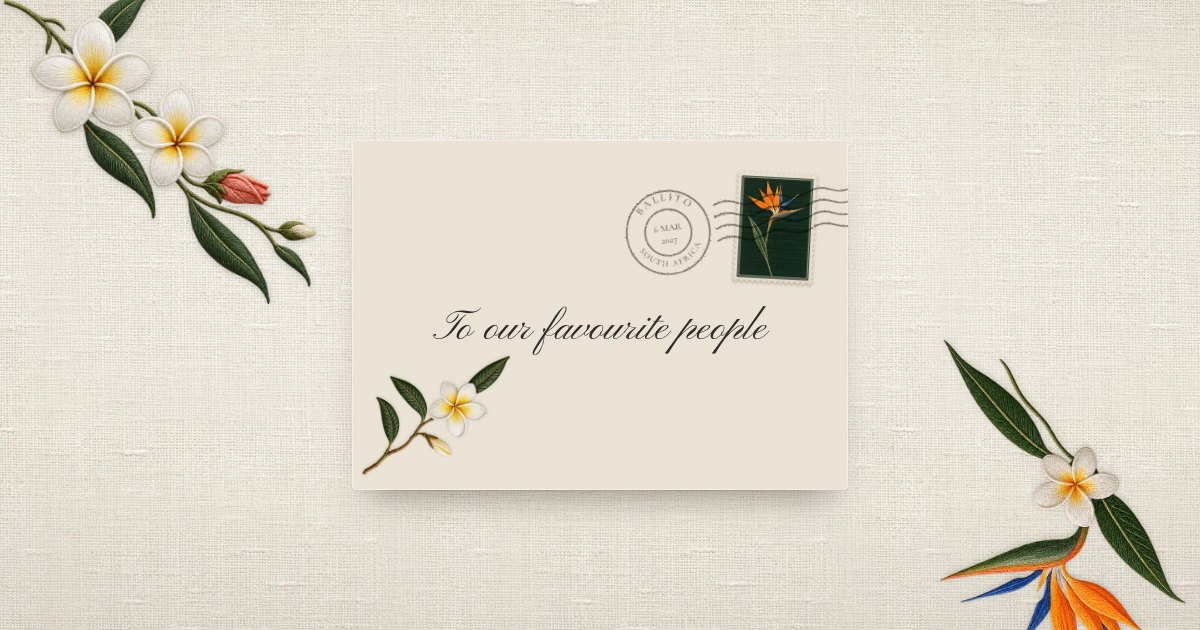
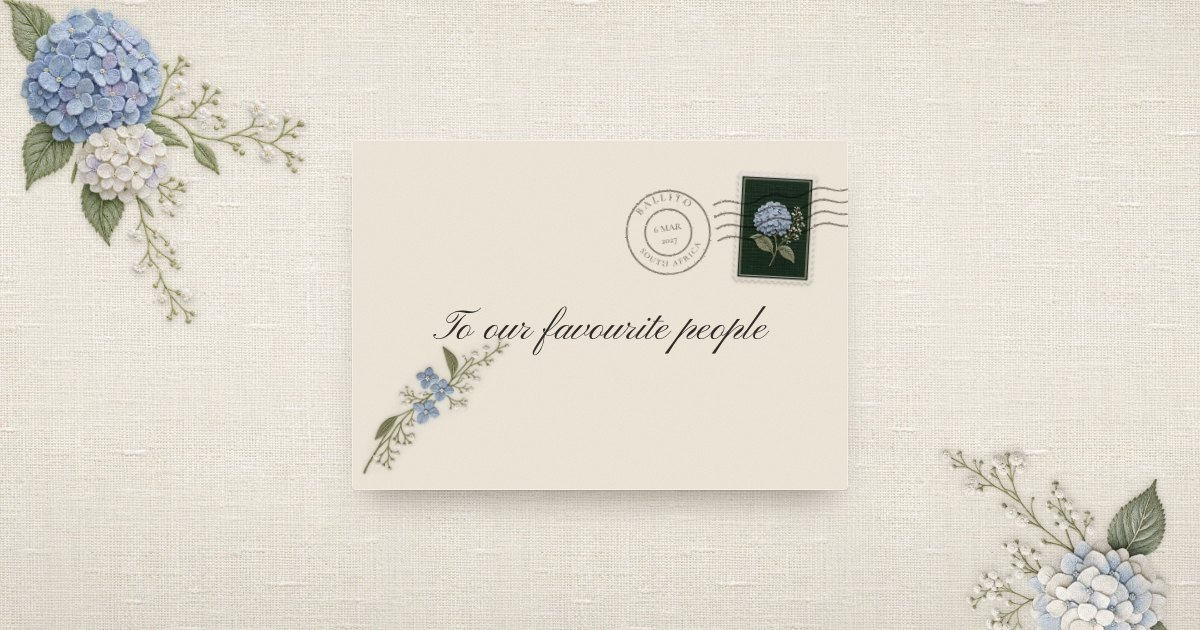
Hydrangeas and baby's breath instead of island flowers
Every floral piece redrawn with soft dusty-blue and white hydrangeas and
baby's breath, still sparse: the cover arch, envelope sprigs, stamp,
liner, side vines, cake, gramophone, bedside vase and the guest cottage.
Flower assets renamed from coastal-* to floral-*.

diff --git a/site/index.html b/site/index.html
@@ -14,7 +14,7 @@
 <meta property="og:url" content="https://benrodrigues05.github.io/rodrigues-wedding/">
 <meta property="og:title" content="Benjamin &amp; Talisha are getting married">
 <meta property="og:description" content="Saturday 6 March 2027 · Collisheen Estate, Ballito. Tap to open your invitation.">
-<meta property="og:image" content="https://benrodrigues05.github.io/rodrigues-wedding/assets/og.jpg?v=3ebeaa2f">
+<meta property="og:image" content="https://benrodrigues05.github.io/rodrigues-wedding/assets/og.jpg?v=dbecaaad">
 <meta property="og:image:width" content="1200">
 <meta property="og:image:height" content="630">
 <meta name="twitter:card" content="summary_large_image">
@@ -25,8 +25,8 @@
 <link rel="preconnect" href="https://fonts.gstatic.com" crossorigin>
 <link rel="stylesheet" href="https://fonts.googleapis.com/css2?family=Pinyon+Script&amp;display=block">
 <link rel="stylesheet" href="https://fonts.googleapis.com/css2?family=Cormorant+Garamond:ital,wght@0,400;0,500;0,600;1,400;1,500&amp;display=swap">
-<link rel="preload" as="image" href="assets/hero-arch.webp?v=c3e23fb2" type="image/webp">
-<link rel="stylesheet" href="styles.css?v=c2107449">
+<link rel="preload" as="image" href="assets/hero-arch.webp?v=a34bda23" type="image/webp">
+<link rel="stylesheet" href="styles.css?v=0fa6d76d">
 <script>
   /* Show the envelope only when JavaScript is running. If script.js?v=94473927 fails to
      load or errors, the invitation is revealed instead of staying sealed. */
@@ -47,8 +47,8 @@
 <!-- ============ THE ENVELOPE (shown first, opened by script.js?v=94473927) ============ -->
 <div class="scene" id="scene">
   <div class="scene-vignette" id="scene-vignette"></div>
-  <img class="scene-sprig scene-sprig--top" src="assets/coastal-corner.webp?v=b234eb41" width="600" height="652" alt="">
-  <img class="scene-sprig scene-sprig--bottom" src="assets/coastal-spray.webp?v=30b27298" width="600" height="821" alt="">
+  <img class="scene-sprig scene-sprig--top" src="assets/floral-corner.webp?v=78e29768" width="600" height="680" alt="">
+  <img class="scene-sprig scene-sprig--bottom" src="assets/floral-spray.webp?v=adca1588" width="600" height="560" alt="">
 
   <div class="envelope" id="envelope" aria-hidden="true">
     <div class="env-back is-hidden" id="env-back">
@@ -78,7 +78,7 @@
     </div>
 
     <div class="env-front" id="env-front">
-      <img class="env-stamp" src="assets/stamp.webp?v=bd9901a7" width="300" height="409" alt="">
+      <img class="env-stamp" src="assets/stamp.webp?v=f6080217" width="300" height="411" alt="">
       <svg class="env-postmark" viewBox="0 0 200 80" focusable="false">
         <defs>
           <path id="pm-top" d="M 13 40 A 27 27 0 0 1 67 40"/>
@@ -106,7 +106,7 @@
         </g>
       </svg>
       <p class="env-to"><span class="env-recipient" id="recipient">To our favourite people</span></p>
-      <img class="env-sprig" src="assets/coastal-sprig.webp?v=27c94e73" width="640" height="514" alt="">
+      <img class="env-sprig" src="assets/floral-sprig.webp?v=2c623f63" width="640" height="600" alt="">
     </div>
   </div>
 
@@ -119,8 +119,8 @@
 <!-- Wide screens only: the same sprigs as on the envelope's table, so the
      page keeps the setting once the letter is open. -->
 <div class="table-decor" id="table-decor" aria-hidden="true">
-  <img class="table-sprig table-sprig--top" src="assets/coastal-corner.webp?v=b234eb41" width="600" height="652" alt="">
-  <img class="table-sprig table-sprig--bottom" src="assets/coastal-spray.webp?v=30b27298" width="600" height="821" alt="">
+  <img class="table-sprig table-sprig--top" src="assets/floral-corner.webp?v=78e29768" width="600" height="680" alt="">
+  <img class="table-sprig table-sprig--bottom" src="assets/floral-spray.webp?v=adca1588" width="600" height="560" alt="">
 </div>
 
 <main class="suite" id="invitation">
@@ -129,7 +129,7 @@
   <header class="hero" id="top">
     <article class="hero-card" id="hero-card" tabindex="-1">
       <p class="eyebrow">The wedding of</p>
-      <img class="hero-arch" src="assets/hero-arch.webp?v=c3e23fb2" width="935" height="1483" alt="Benjamin and Talisha in a black-and-white photograph, framed by an embroidered stone arch of bougainvillea, hibiscus and frangipani">
+      <img class="hero-arch" src="assets/hero-arch.webp?v=a34bda23" width="939" height="1482" alt="Benjamin and Talisha in a black-and-white photograph, framed by an embroidered stone arch with hydrangeas and baby&rsquo;s breath">
       <h1 class="names">Benjamin <span class="amp">&amp;</span> Talisha</h1>
       <p class="hero-date">Saturday · 6 March 2027</p>
       <p class="hero-place">Collisheen Estate · Ballito</p>
@@ -139,8 +139,8 @@
 
   <!-- ============ 2. INVITATION + COUNTDOWN ============ -->
   <section class="families" id="invite" aria-labelledby="invite-title">
-    <img class="garland garland--left" src="assets/coastal-garland.webp?v=33c58f59" width="167" height="1200" alt="" loading="lazy" decoding="async">
-    <img class="garland garland--right" src="assets/coastal-garland.webp?v=33c58f59" width="167" height="1200" alt="" loading="lazy" decoding="async">
+    <img class="garland garland--left" src="assets/floral-garland.webp?v=346e26ac" width="168" height="1200" alt="" loading="lazy" decoding="async">
+    <img class="garland garland--right" src="assets/floral-garland.webp?v=346e26ac" width="168" height="1200" alt="" loading="lazy" decoding="async">
 
     <h2 class="script-title" id="invite-title">Please join us</h2>
     <p class="lede invite-lede">as we say &ldquo;I do&rdquo; in a little chapel among the trees</p>
@@ -184,7 +184,7 @@
   <!-- ============ 4. THE DETAILS: the running order (striped linen) ============ -->
   <section class="details" id="details" aria-labelledby="details-title">
     <div class="details-panel">
-      <img class="motif details-tl" src="assets/coastal-spray.webp?v=30b27298" width="600" height="821" alt="" loading="lazy" decoding="async">
+      <img class="motif details-tl" src="assets/floral-spray.webp?v=adca1588" width="600" height="560" alt="" loading="lazy" decoding="async">
       <img class="motif details-tr" src="assets/lanterns.webp?v=c26fea3b" width="434" height="640" alt="" loading="lazy" decoding="async">
       <h2 class="script-title details-title" id="details-title">The Details</h2>
 
@@ -212,7 +212,7 @@
       </ol>
 
       <img class="motif details-bl" src="assets/champagne.webp?v=5cf81765" width="520" height="579" alt="" loading="lazy" decoding="async">
-      <img class="motif details-br" src="assets/cake.webp?v=a040beea" width="383" height="640" alt="" loading="lazy" decoding="async">
+      <img class="motif details-br" src="assets/cake.webp?v=bcde5944" width="327" height="640" alt="" loading="lazy" decoding="async">
     </div>
   </section>
 
@@ -221,8 +221,8 @@
   <section class="dress" id="dress-code" aria-labelledby="dress-title">
     <div class="napkin">
       <div class="napkin-sprigs">
-        <img class="motif" src="assets/coastal-corner.webp?v=b234eb41" width="600" height="652" alt="" loading="lazy" decoding="async">
-        <img class="motif" src="assets/coastal-sprig.webp?v=27c94e73" width="640" height="514" alt="" loading="lazy" decoding="async">
+        <img class="motif" src="assets/floral-corner.webp?v=78e29768" width="600" height="680" alt="" loading="lazy" decoding="async">
+        <img class="motif" src="assets/floral-sprig.webp?v=2c623f63" width="640" height="600" alt="" loading="lazy" decoding="async">
       </div>
       <img class="motif guests" src="assets/guests.webp?v=6ffe99b5" width="1100" height="697" alt="Embroidered guests in terracotta, orange, marigold, chartreuse, fuchsia and plum gowns, and sand and forest-green suits" loading="lazy" decoding="async">
       <h2 class="script-title" id="dress-title">Dress Code</h2>
@@ -240,7 +240,7 @@
 
   <!-- ============ 6. WHERE TO STAY ============ -->
   <section class="stay" id="stay" aria-labelledby="stay-title">
-    <img class="motif nightstand" src="assets/nightstand.webp?v=cc990385" width="251" height="480" alt="" loading="lazy" decoding="async">
+    <img class="motif nightstand" src="assets/nightstand.webp?v=c483ba5e" width="220" height="480" alt="" loading="lazy" decoding="async">
     <h2 class="script-title" id="stay-title">Where to Stay</h2>
     <p class="caps">Good-value stays near Ballito Junction</p>
     <p class="lede">Ballito Junction is a short drive from the venue, with plenty of places to eat nearby. A few of our picks:</p>
@@ -267,7 +267,7 @@
     </ul>
     <p class="stay-more">Looking for something else? <a href="https://www.lekkeslaap.co.za/accommodation-in/ballito" target="_blank" rel="noopener">Browse more places in Ballito</a></p>
 
-    <img class="motif cottage" src="assets/cottage.webp?v=542e13ec" width="1000" height="662" alt="An embroidered whitewashed guest cottage with a frangipani tree and a palm" loading="lazy" decoding="async">
+    <img class="motif cottage" src="assets/cottage.webp?v=1d957603" width="1000" height="654" alt="An embroidered whitewashed guest cottage with hydrangea bushes" loading="lazy" decoding="async">
   </section>
 
 
@@ -288,7 +288,7 @@
   <!-- ============ 8. RSVP (reply card) ============ -->
   <section class="rsvp" id="rsvp" aria-labelledby="rsvp-title">
     <div class="reply-card">
-      <img class="reply-stamp" src="assets/stamp.webp?v=bd9901a7" width="300" height="409" alt="" loading="lazy" decoding="async">
+      <img class="reply-stamp" src="assets/stamp.webp?v=f6080217" width="300" height="411" alt="" loading="lazy" decoding="async">
       <div class="reply-head" id="rsvp-head">
         <h2 class="script-title" id="rsvp-title">Kindly Reply</h2>
         <p class="reply-by">by 1 December 2026</p>
@@ -343,7 +343,7 @@
         </div>
 
         <div class="if-attending playlist-block">
-          <img class="playlist-gramophone" src="assets/gramophone.webp?v=2d4e3658" width="640" height="900" alt="" loading="lazy" decoding="async">
+          <img class="playlist-gramophone" src="assets/gramophone.webp?v=d0c07217" width="640" height="876" alt="" loading="lazy" decoding="async">
           <p class="script-sub playlist-title">For the playlist</p>
           <p class="playlist-lede">Which songs will get you on the dance floor?</p>
           <div class="field">

diff --git a/site/styles.css b/site/styles.css
@@ -187,7 +187,7 @@ html.js:not(.is-open) body { overflow: hidden; }
   position: absolute;
   inset: 5% 4.5% 0;
   border-radius: 2px 2px 0 0;
-  background: url("assets/liner.webp?v=ed8e408a") 50% 0 / 150px 150px;
+  background: url("assets/liner.webp?v=09b85ff6") 50% 0 / 150px 150px;
 }
 .env-wall::after {            /* shadow inside the envelope's mouth */
   content: "";
@@ -221,7 +221,7 @@ html.js:not(.is-open) body { overflow: hidden; }
 .flap-paper,
 .flap-liner { position: absolute; inset: 0; }
 .flap-paper { clip-path: polygon(0 0, 100% 0, 50% 100%); background: #E7DFD0; }
-.flap-liner { clip-path: polygon(5.5% 0, 94.5% 0, 50% 90%); background: url("assets/liner.webp?v=ed8e408a") 50% 0 / 150px 150px; }
+.flap-liner { clip-path: polygon(5.5% 0, 94.5% 0, 50% 90%); background: url("assets/liner.webp?v=09b85ff6") 50% 0 / 150px 150px; }
 
 .env-seal {
   position: absolute;

diff --git a/tools/make_hero.py b/tools/make_hero.py
@@ -58,7 +58,7 @@ def main():
     y0, y1, x0, x1 = box[0].min(), box[0].max(), box[1].min(), box[1].max()
     hero = hero.crop((max(x0 - 4, 0), max(y0 - 4, 0), min(x1 + 5, hero.width), min(y1 + 5, hero.height)))
     hero.save(OUT, "WEBP", quality=80, method=6)
-    print(f"wrote {OUT} ({hero.width}x{hero.height}); index.html expects 935x1483")
+    print(f"wrote {OUT} ({hero.width}x{hero.height}); index.html expects 939x1482")
 
 
 if __name__ == "__main__":

diff --git a/tools/ART.md b/tools/ART.md
@@ -92,6 +92,26 @@ the job IDs in the previous table.
 | `gramophone` | fa60bf45-e1c9-4e54-b3d1-556cc83b3099 |
 | `nightstand` | 83ac51de-d077-48ba-b422-2b78f8058e8c |
 
+### Hydrangeas and baby's breath (6 October 2026, fourth pass)
+
+Ben swapped the hibiscus and other island flowers for soft dusty-blue and
+white hydrangeas with baby's breath, kept just as sparse. These are the
+current versions; the coastal flower files were renamed to `floral-*`.
+
+| Asset | Higgsfield job |
+|---|---|
+| cover arch frame (`source/arch-frame.png`) | c425c75a-51fb-430f-bec1-c66828d3669e |
+| `floral-corner` | 85862f6e-fe3d-486a-85eb-eaef1e58d03a |
+| `floral-spray` | c870a97c-ddce-48a0-8515-90b5addb3367 |
+| `floral-garland` | 93aba5ed-5127-4664-81bb-08f878bf488c |
+| `floral-sprig` | 85cba609-d305-4f4f-9790-2893b9e149e0 |
+| `stamp` | f35301d3-de0e-4669-be16-1d8d4992de67 |
+| `liner` (opaque) | 15f06249-b2fb-48ad-9b68-5652e7f2ac68 |
+| `cake` | a94213b9-fdeb-47b5-af97-487a785f5e2c |
+| `gramophone` | c95682e0-c160-47f3-a167-ba5438be66a4 |
+| `nightstand` | f6eb6d45-f936-41d4-a375-ff825b71682c |
+| `cottage` (hydrangea bushes) | 1d6a57cc-ba7d-491e-9840-0c3b8a47a839 |
+
 Made by code rather than generated: the envelope, postmark, napkin fringe
 (`fringe.svg`), paper grain, stitching, link-preview image (`og.jpg`, a
 screenshot of the envelope) and the icons (the wax seal on paper).
